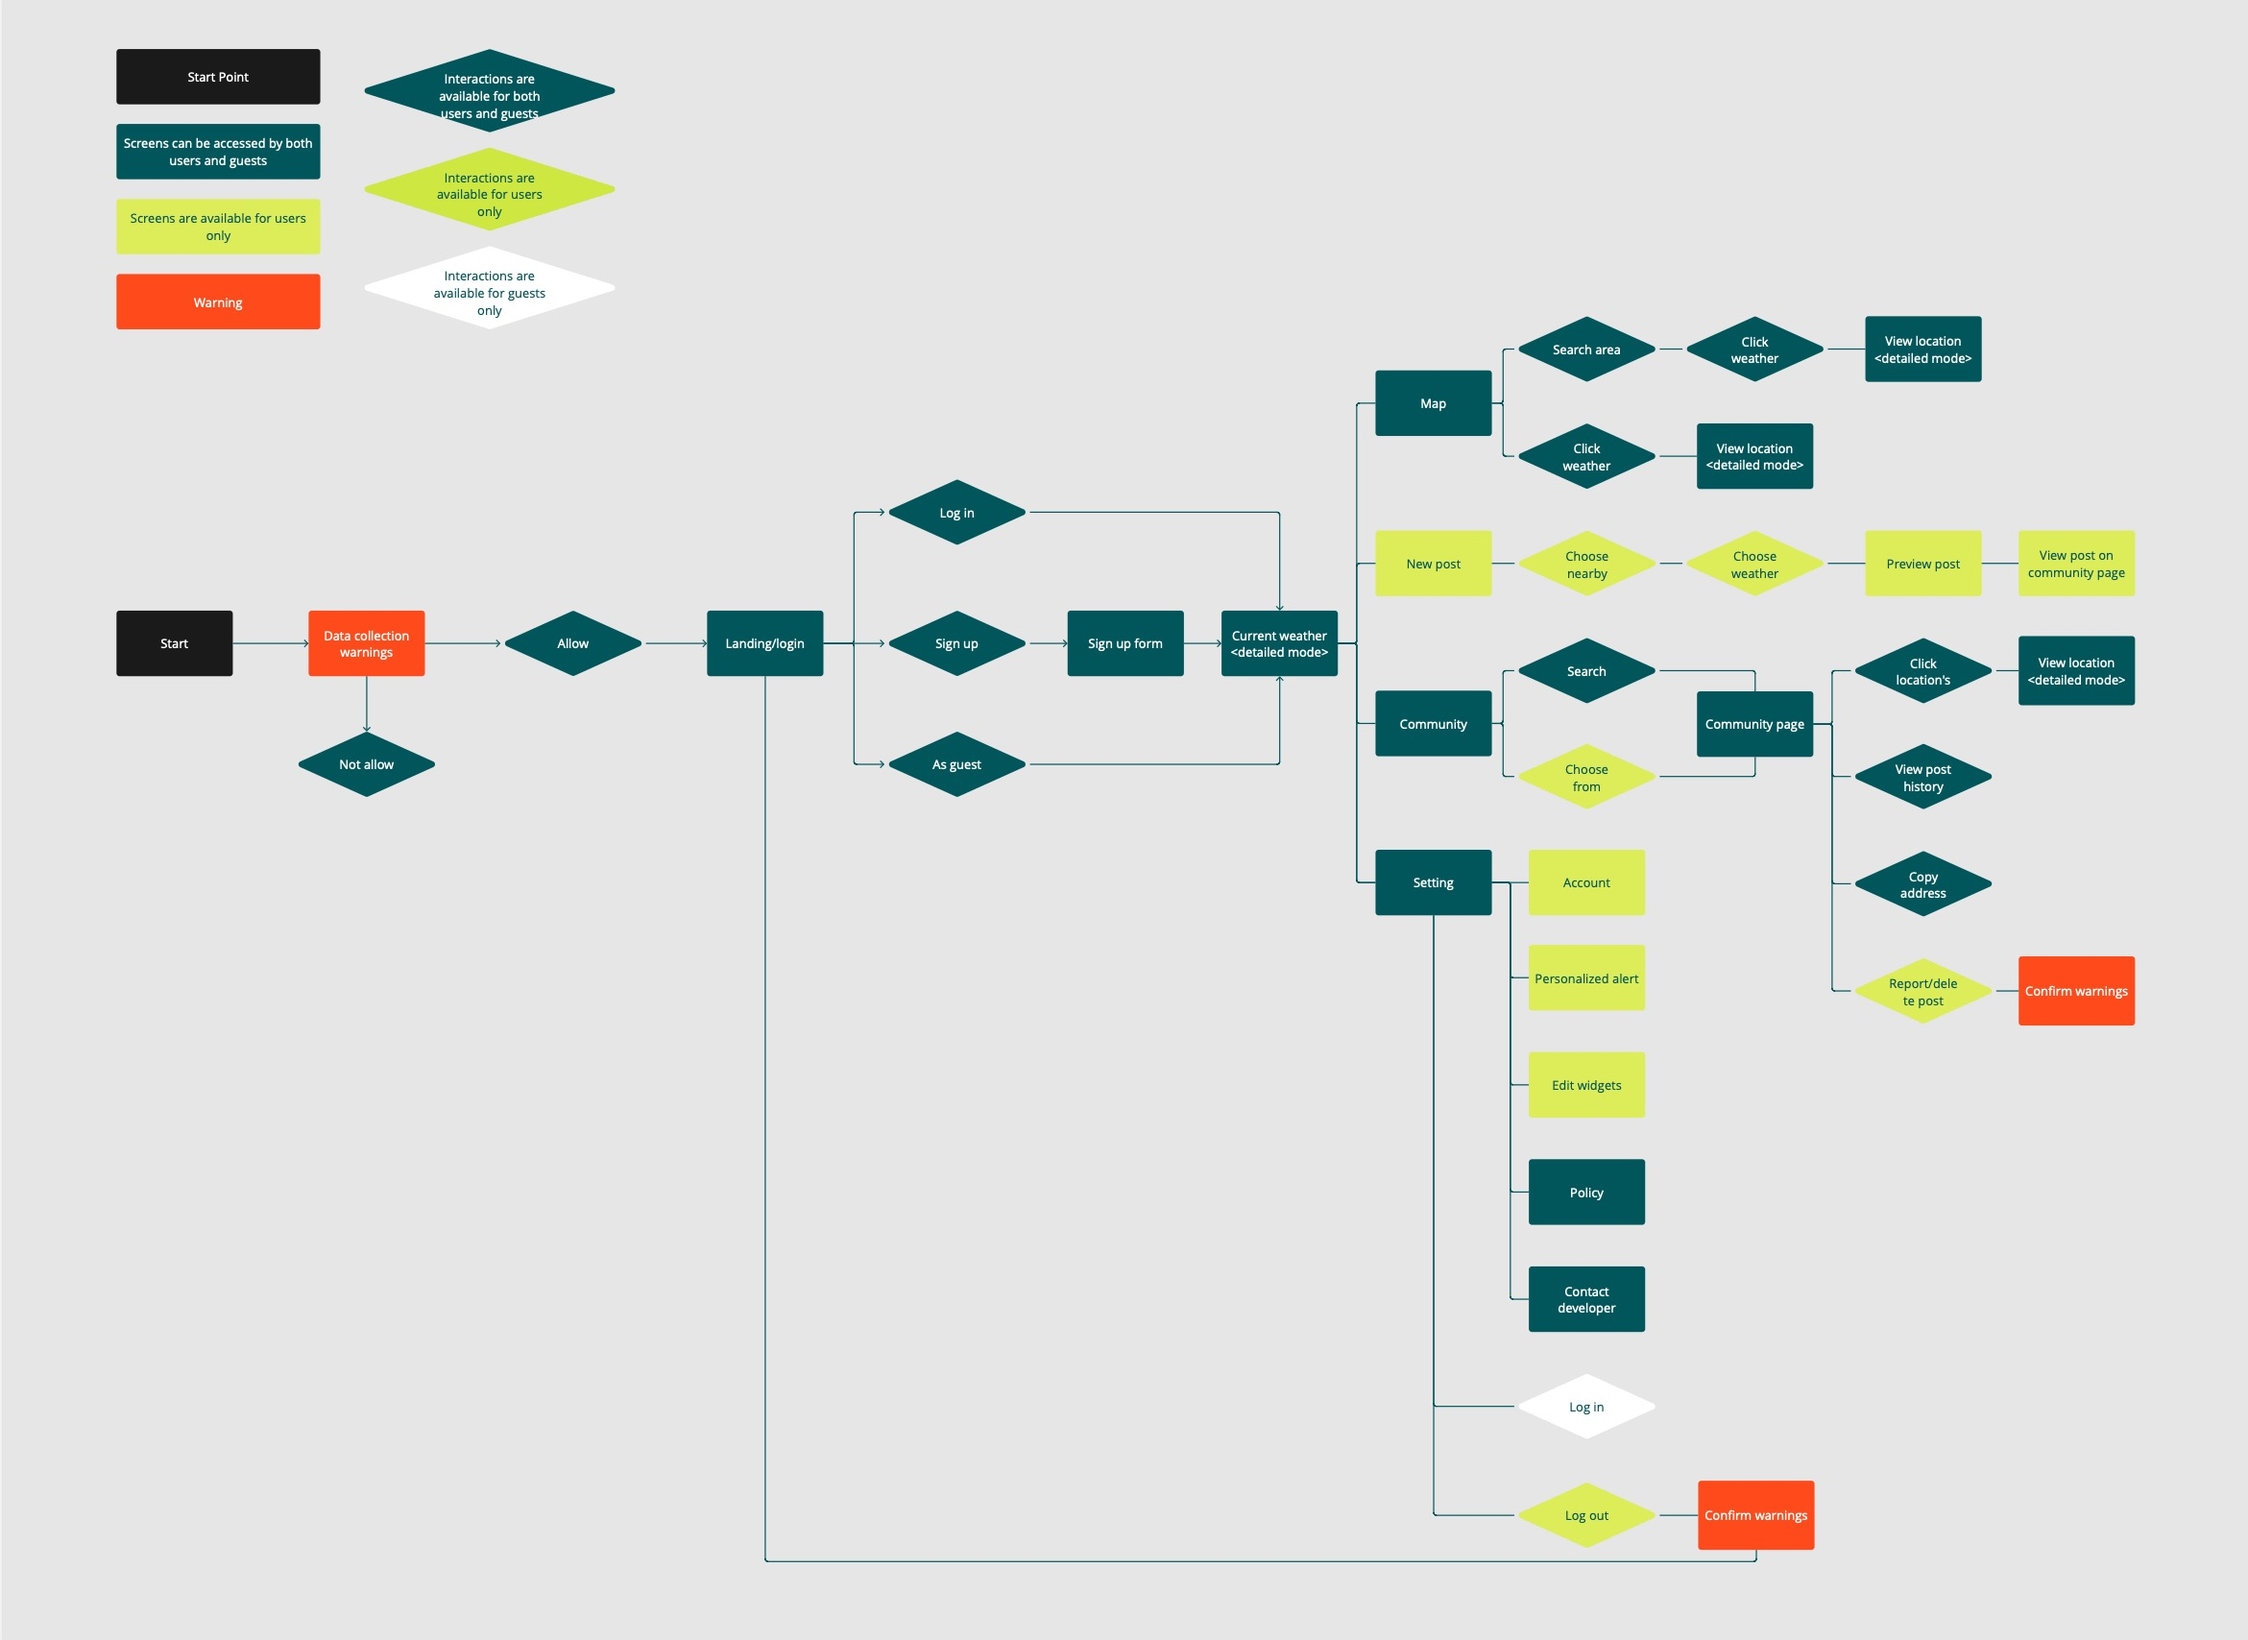
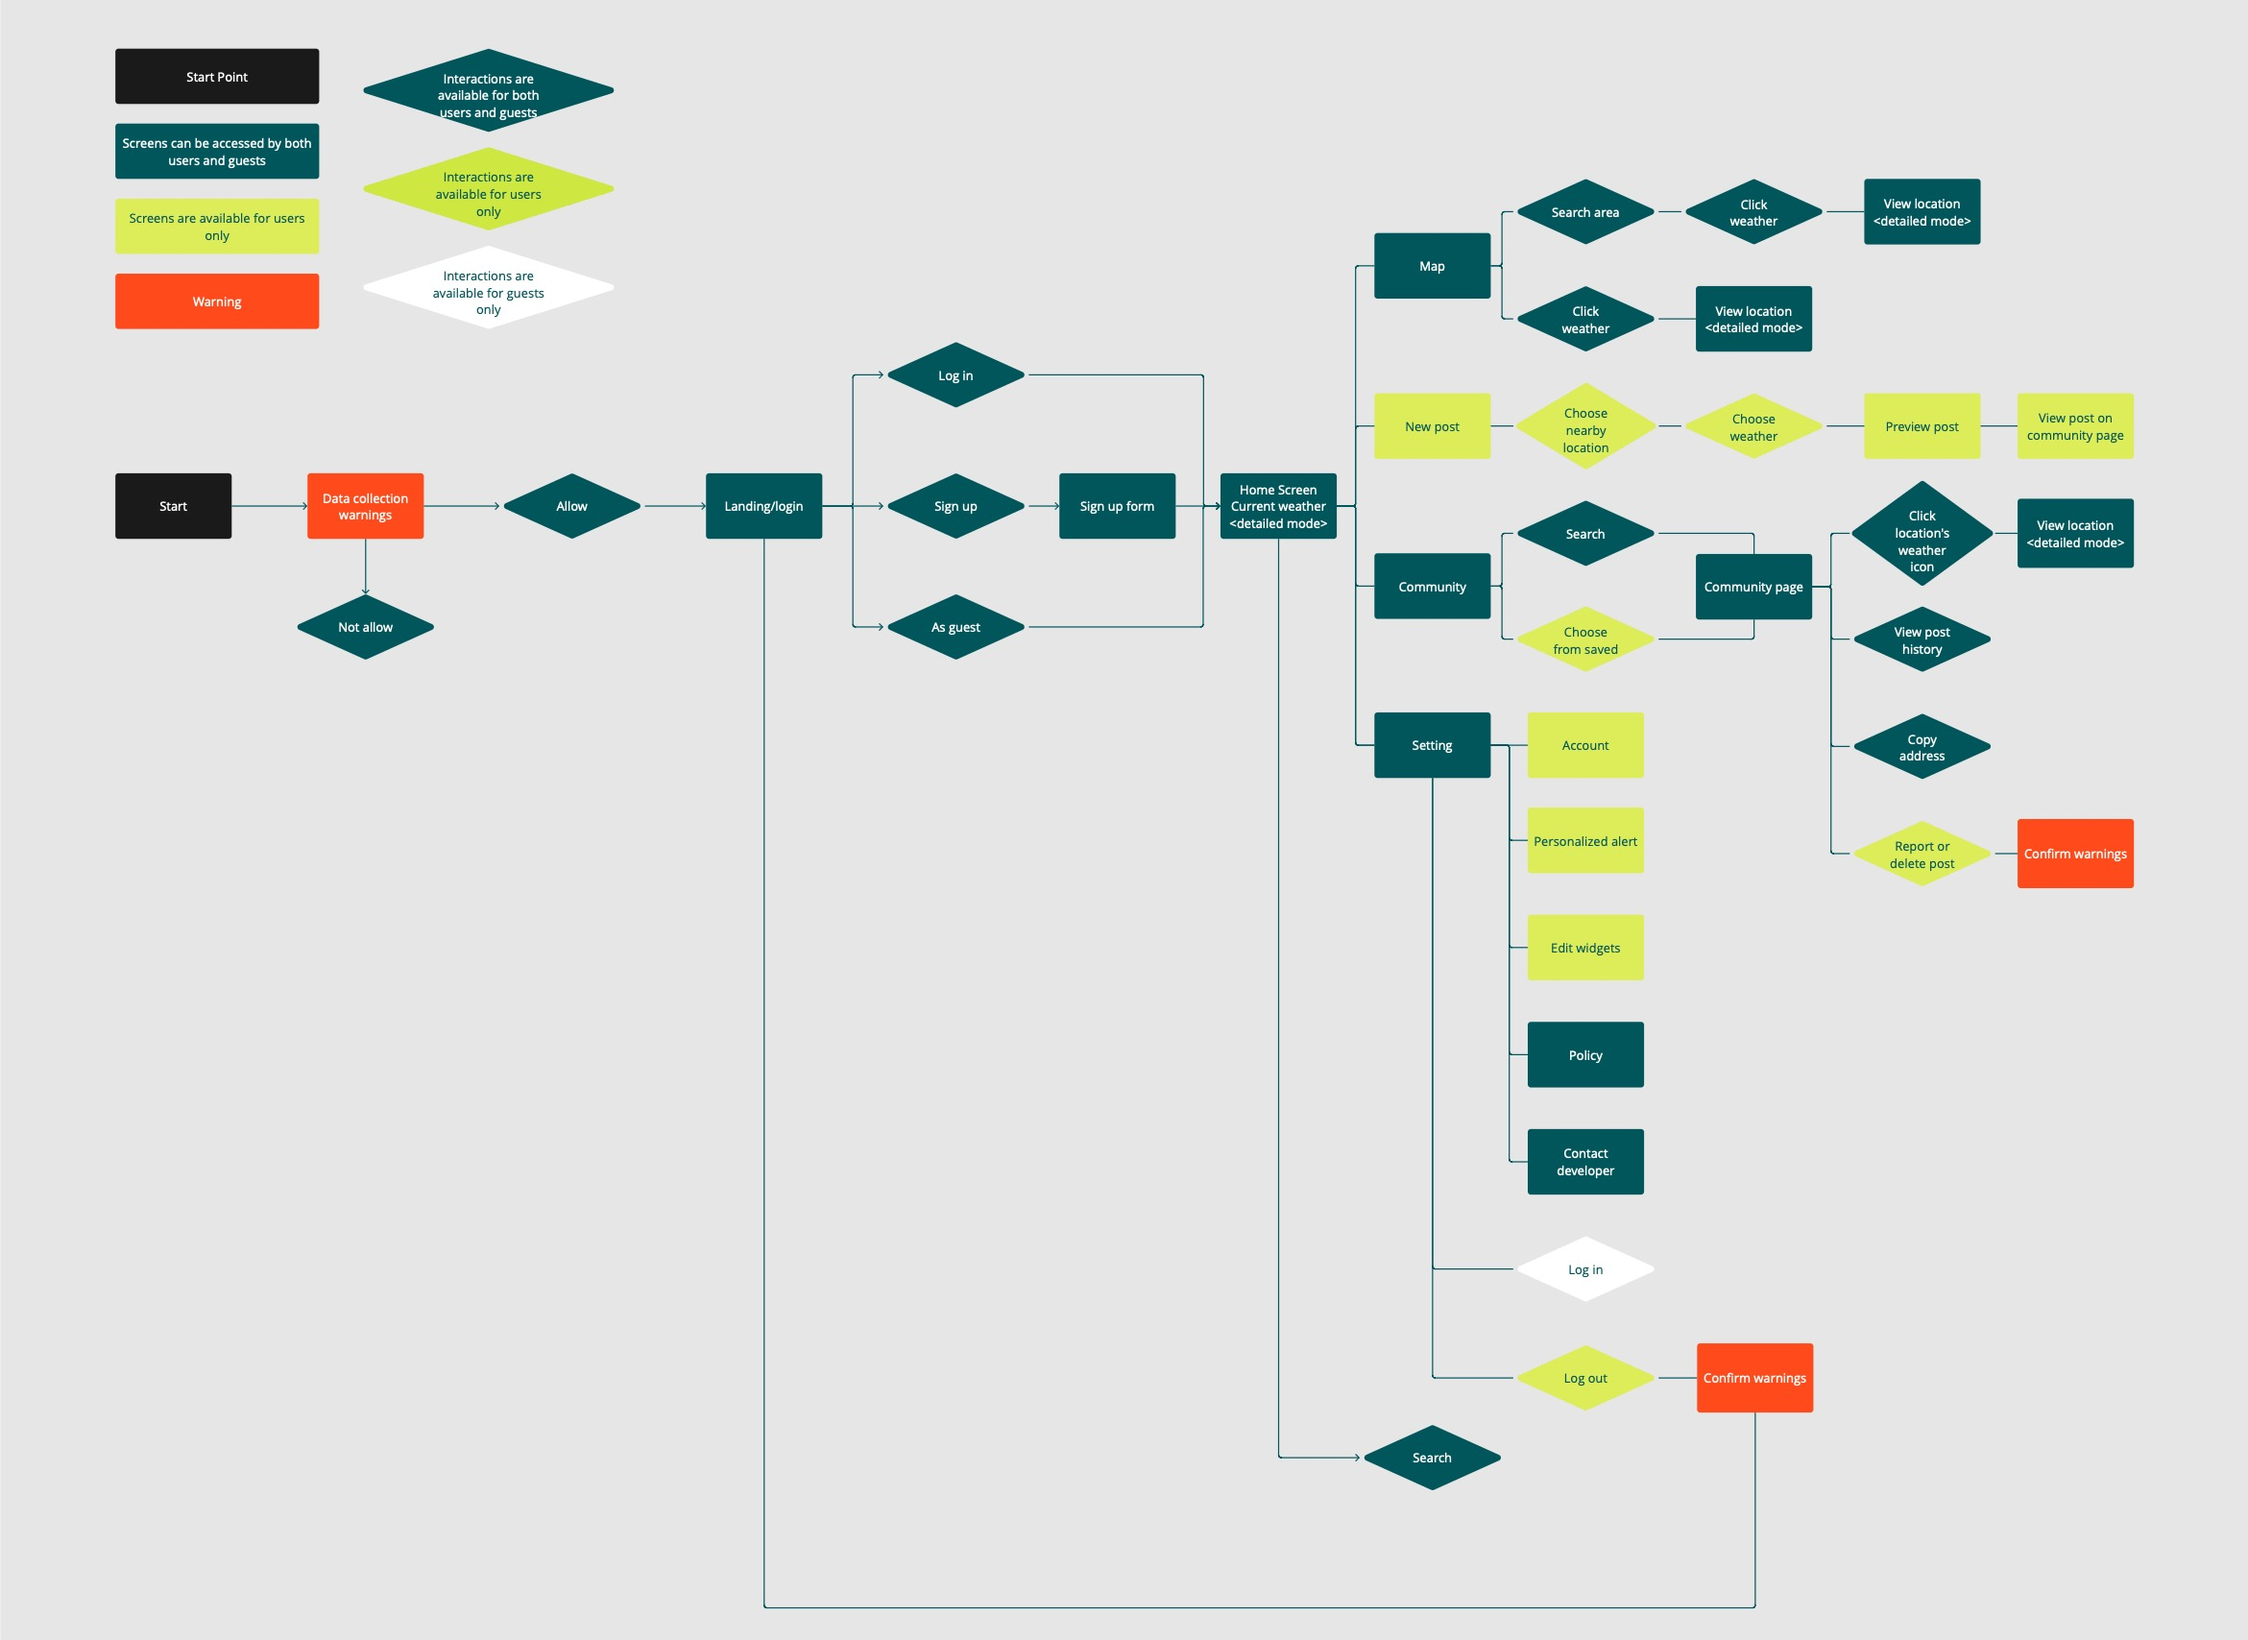
Update pixel weather
Add images

diff --git a/project-pixelweather.html b/project-pixelweather.html
@@ -50,27 +50,85 @@
                     <h3 class="text-lime font-bold">Community-Drive Weather Insights</h3>
                     The community feature allows users to view the latest updates from recent visitors at outdoor locations like forests, national parks, campgrounds, and hiking trails. These updates ensure users stay informed.
                 </div>
-
             </div>
         </div>
         <div>
             <h2 class="md:text-4xl text-2xl font-bold pb-4">User Flow</h2>
             <p class="text-pretty xl:w-[60vw] pb-4">
-                The user flow chart outlines how visitors will interact with the app, whether they sign in or use it as a guest. A guest mode is included because many users prefer not to create an account or sign up for a new service when first using an app. 
-                In the flow chart, rounded rectangles represent screens, while diamond shapes indicate interactions between the user (or guest) and the app. 
-                The diamond shapes may also represent buttons or other elements that users can interact with.
-                
+                The user flow outlines the structure of Pixel Weather and how both guests and registered users interact with the platform. 
+                Rectangles represent different screens, while diamonds indicate interaction points—color-coded to distinguish between actions available to all users and those exclusive to registered users.
+                Below is an overview of the four main screens: Home, Map, Add Post, and Community.
             </p>
-            <img class="zoom-in" src="./assets/images/project-pixel-user flow.jpg" alt="">
+            <div class="grid lg:grid-cols-2 grid-cols-1 gap-6 xl:w-[80vw]">
+                <div class="text-balance">
+                    <h3 class="text-lime font-bold">Home</h3>
+                    The Home Screen provides real-time weather updates for the user’s current location. Users can also search for weather information in other suburbs or cities.
+                </div>
+                <div class="text-balance">
+                    <h3 class="text-lime font-bold">Map</h3>
+                    The Map allows users to check nearby weather conditions. By clicking on an icon, users can switch to a detailed weather information view—using the same template as the Home Screen.
+                </div>
+                <div class="text-balance">
+                    <h3 class="text-lime font-bold">Add Post</h3>
+                    This feature is designed for outdoor enthusiasts who rely on firsthand, real-time weather insights. 
+                    Users can add a post by selecting a nearby location (e.g., national parks, forests, or trails) and updating the current weather conditions. 
+                    Since API-provided data may not always reflect real-time conditions, this feature allows users to share accurate updates. 
+                    Additionally, users can add notes to inform others about potential hazards, such as damaged trails or unsuitable camping spots.                
+                </div>
+                <div class="text-balance">
+                    <h3 class="text-lime font-bold">Community</h3>
+                    The Community section enables users to explore weather updates and posts shared by others. 
+                    Users can either browse bookmarked locations or search for new ones. 
+                    Each community page displays the location’s weather conditions, which can be expanded for a detailed view (using the same template as the Home Screen). 
+                    Additionally, the location address is copyable for easy navigation via third-party apps.
+                </div>
+            </div>
+            <div class="pt-8">
+                <img class="zoom-in" src="./assets/images/project-pixel-user flow.jpg" alt="">
+            </div>
         </div>
         <div>
             <h2 class="md:text-4xl text-2xl font-bold pb-4">Wireframes</h2>
             <p class="text-pretty xl:w-[60vw] pb-4">
-           </p>
-           <img class="zoom-in" src="./assets/images/project-pixel-wireframes.png" alt="">
-
-
-            
+                The wireframes illustrate the core screens of Pixel Weather, emphasizing usability and accessibility. 
+                Below is a breakdown of each screen’s key elements:
+            </p>
+            <div class="grid lg:grid-cols-2 grid-cols-1 gap-6 xl:w-[80vw]">
+                <div class="text-balance">
+                    <h3 class="text-lime font-bold">Home Screen</h3>
+                    The Home Screen is the first page users see, featuring a prominent weather icon to quickly convey current conditions. It also provides detailed weather data for the user’s location, including hourly forecasts and a seven-day outlook. 
+                    A variety of weather icons ensure easy recognition of changing conditions.                
+                </div>
+                <div class="text-balance">
+                    <h3 class="text-lime font-bold">Map Screen</h3>
+                    Weather icons are displayed across the map, positioned based on different cities and suburbs to provide an at-a-glance view of nearby weather conditions.
+                </div>
+                <div class="text-balance">
+                    <h3 class="text-lime font-bold">Add Post Screen</h3>
+                    When users create a new post, the location’s weather icon appears alongside the place’s name and address. 
+                    This helps users compare API-retrieved weather data with actual conditions. 
+                    If the information is inaccurate, users can correct it and contribute more reliable, firsthand insights for the community.              
+                </div>
+                <div class="text-balance">
+                    <h3 class="text-lime font-bold">Community Screen</h3>
+                    The Community section allows users to explore posts shared by others. 
+                    The top of the page features a map displaying the general location, with the current weather conditions shown below. 
+                    The latest posts are listed beneath the weather details, each accompanied by a weather icon selected by the original poster.
+                </div>
+            </div>
+            <div class="pt-8">
+                <img class="zoom-in" src="./assets/images/project-pixel-wireframes.png" alt="">
+            </div>
+        </div>
+        <div>
+            <h2 class="md:text-4xl text-2xl font-bold pb-4">Elements</h2>
+            <div class="grid grid-cols-2">
+                <img class="zoom-in" src="./assets/images/project-pixel-colors.png" alt="">
+                <img class="zoom-in" src="./assets/images/project-pixel-materials.png" alt="">
+            </div>
+        </div>
+        <div>
+            <h2 class="md:text-4xl text-2xl font-bold pb-4">Prototype</h2>
         </div>
     </div>
     <div class="p-8 h-[15vh] content-center flex justify-end font-body text-silver">

diff --git a/css/output.css b/css/output.css
@@ -609,6 +609,15 @@
   .h-\[200vh\] {
     height: 200vh;
   }
+  .w-\[20vw\] {
+    width: 20vw;
+  }
+  .w-\[80vw\] {
+    width: 80vw;
+  }
+  .w-\[100vw\] {
+    width: 100vw;
+  }
   .w-dvw {
     width: 100dvw;
   }
@@ -620,6 +629,9 @@
   }
   .flex-3 {
     flex: 3;
+  }
+  .basis-1 {
+    flex-basis: calc(var(--spacing) * 1);
   }
   .basis-2\/5 {
     flex-basis: calc(2/5 * 100%);
@@ -650,6 +662,9 @@
   }
   .flex-col {
     flex-direction: column;
+  }
+  .flex-row {
+    flex-direction: row;
   }
   .content-center {
     align-content: center;
@@ -1080,6 +1095,11 @@
   .xl\:w-\[60vw\] {
     @media (width >= 80rem) {
       width: 60vw;
+    }
+  }
+  .xl\:w-\[80vw\] {
+    @media (width >= 80rem) {
+      width: 80vw;
     }
   }
   .xl\:grid-cols-10 {
